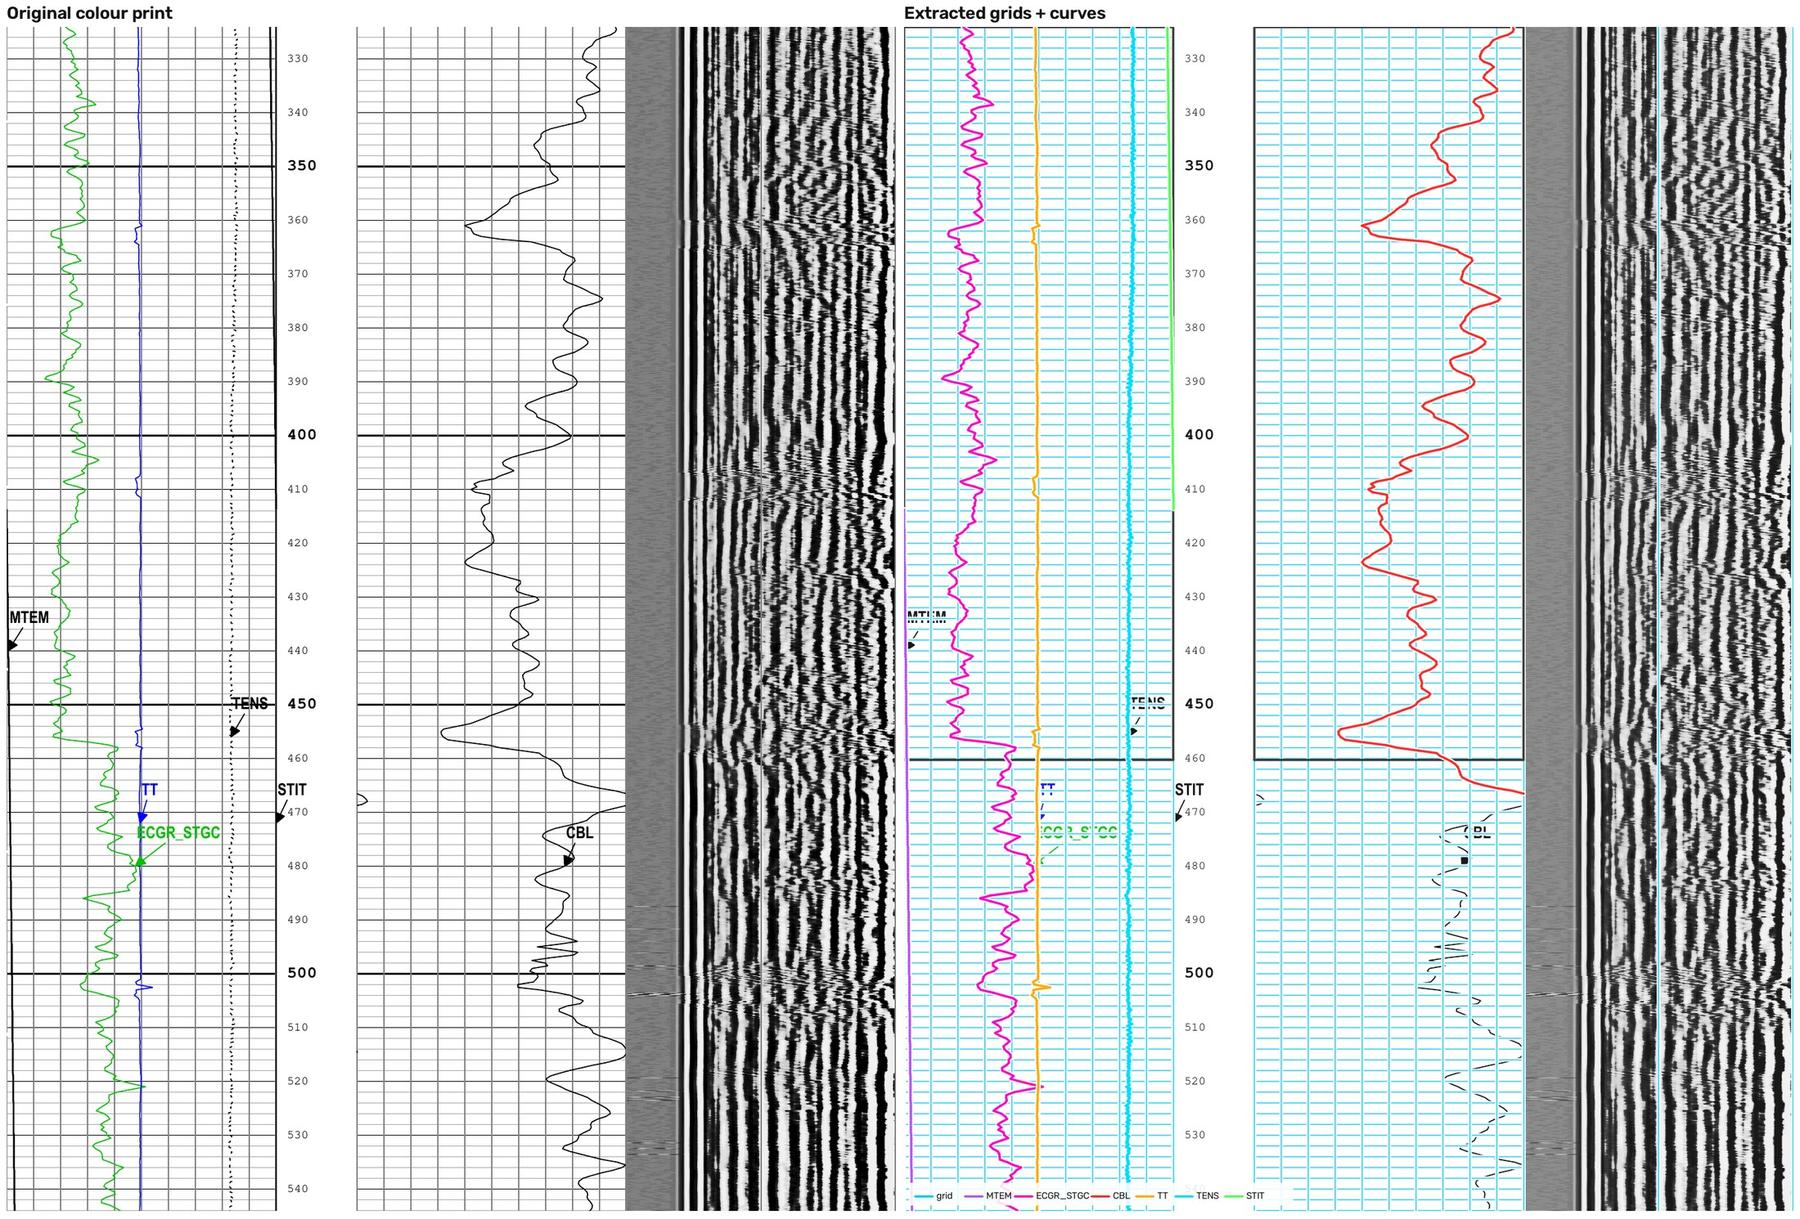
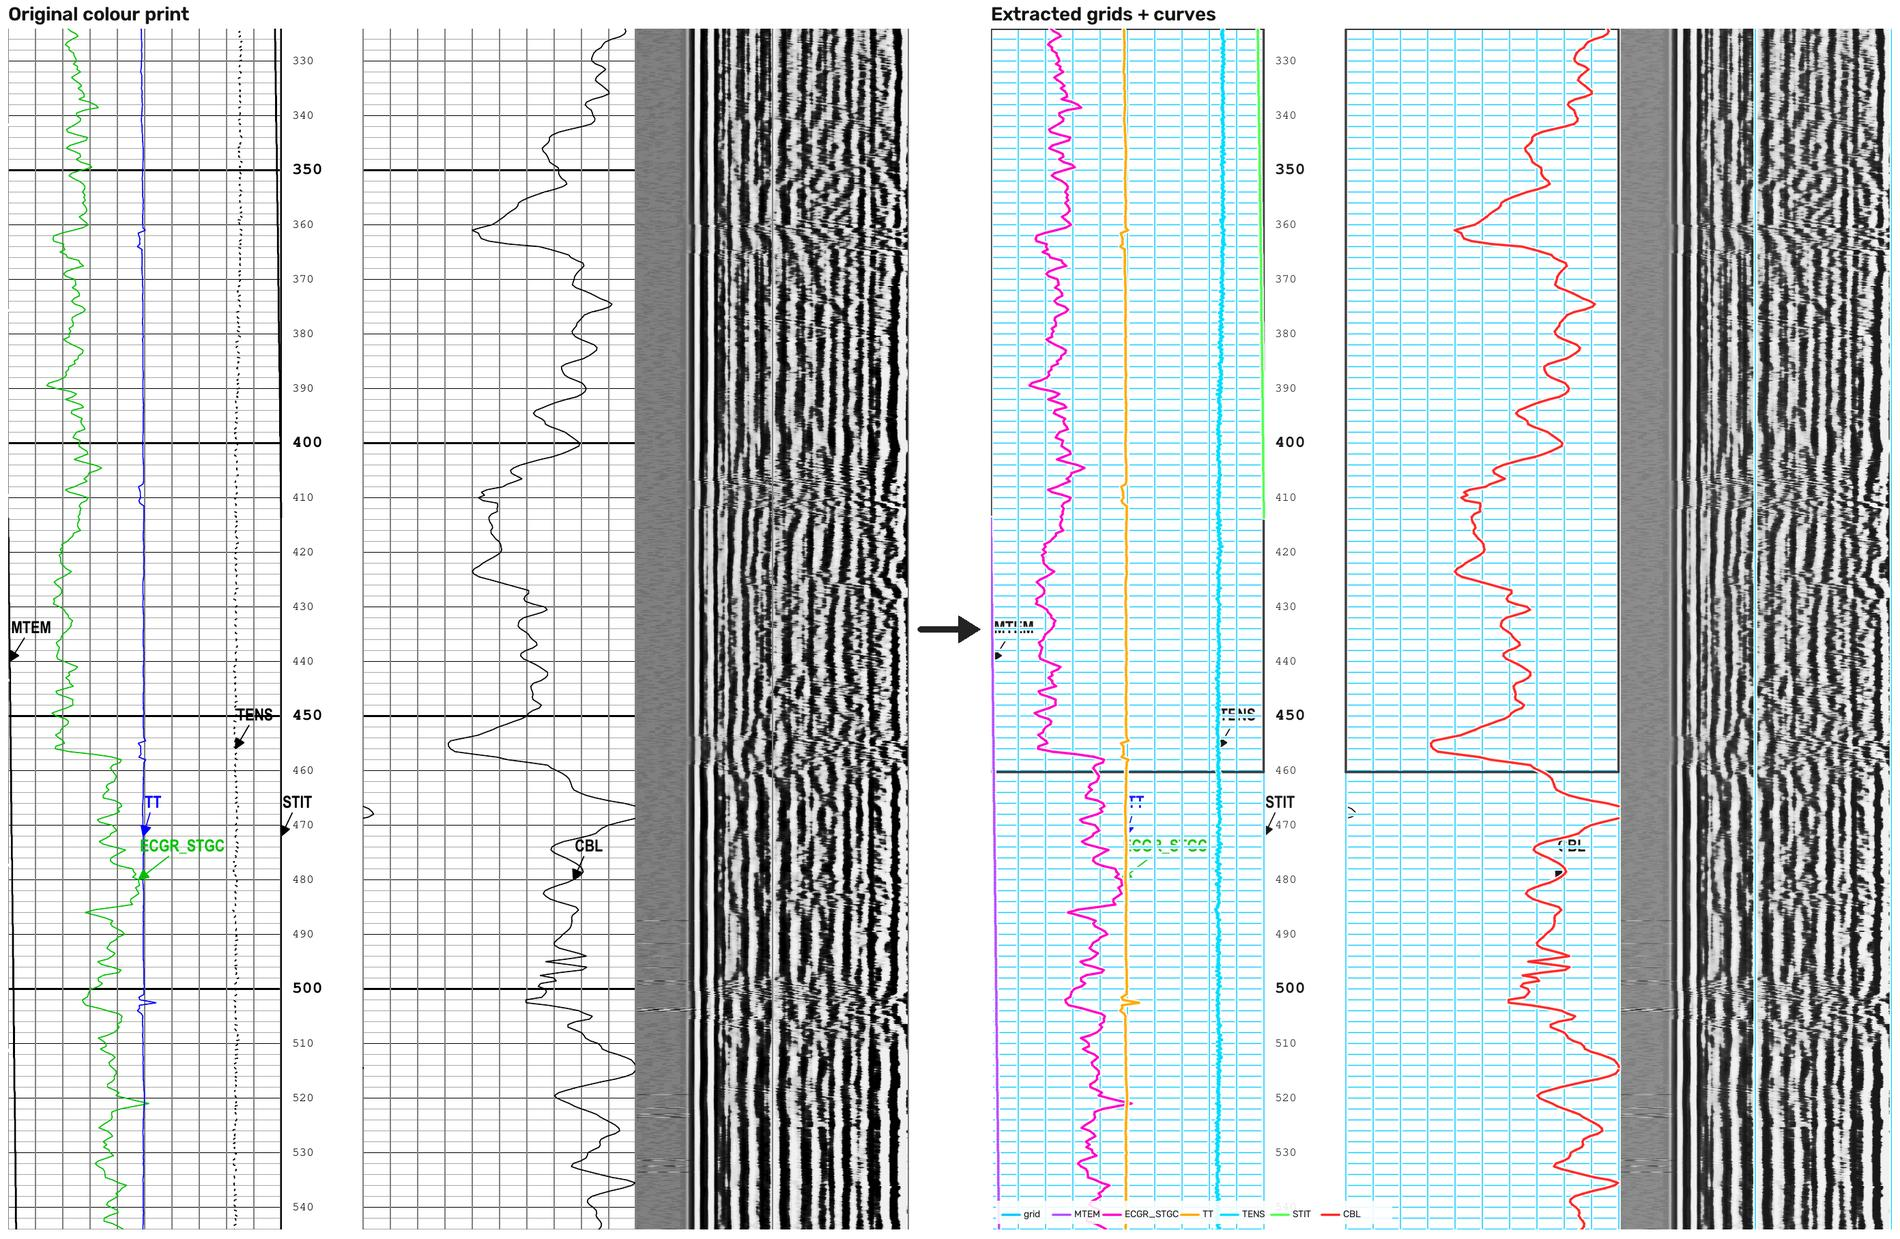
README: separate FORGE CBL comparison panels with an arrow

diff --git a/README.md b/README.md
@@ -72,7 +72,7 @@ On some multi-curve digital prints a GR piece may be only partly captured (FORGE
 *Utah FORGE 78B-32 CBL, page 7: digitized curves and the PDF’s own grid lines drawn on the rendered colour page.*
 
 ![Utah FORGE CBL original vs extracted grids and curves](image/overlay_pdf_forge_cbl_compare.jpg)
-*Utah FORGE 78B-32 CBL: original colour print (left) and the same page with extracted grids and curves drawn back in contrasting colours (right).*
+*Utah FORGE 78B-32 CBL: original colour print (left) → extracted grids and curves drawn back in contrasting colours (right).*
 
 ![Node editor](image/node_editor.png)
 *Node editor: drop a node (D) that snaps to nearby ink inside an adjustable circle and reconnects the curve instantly, without rerunning the model.*
